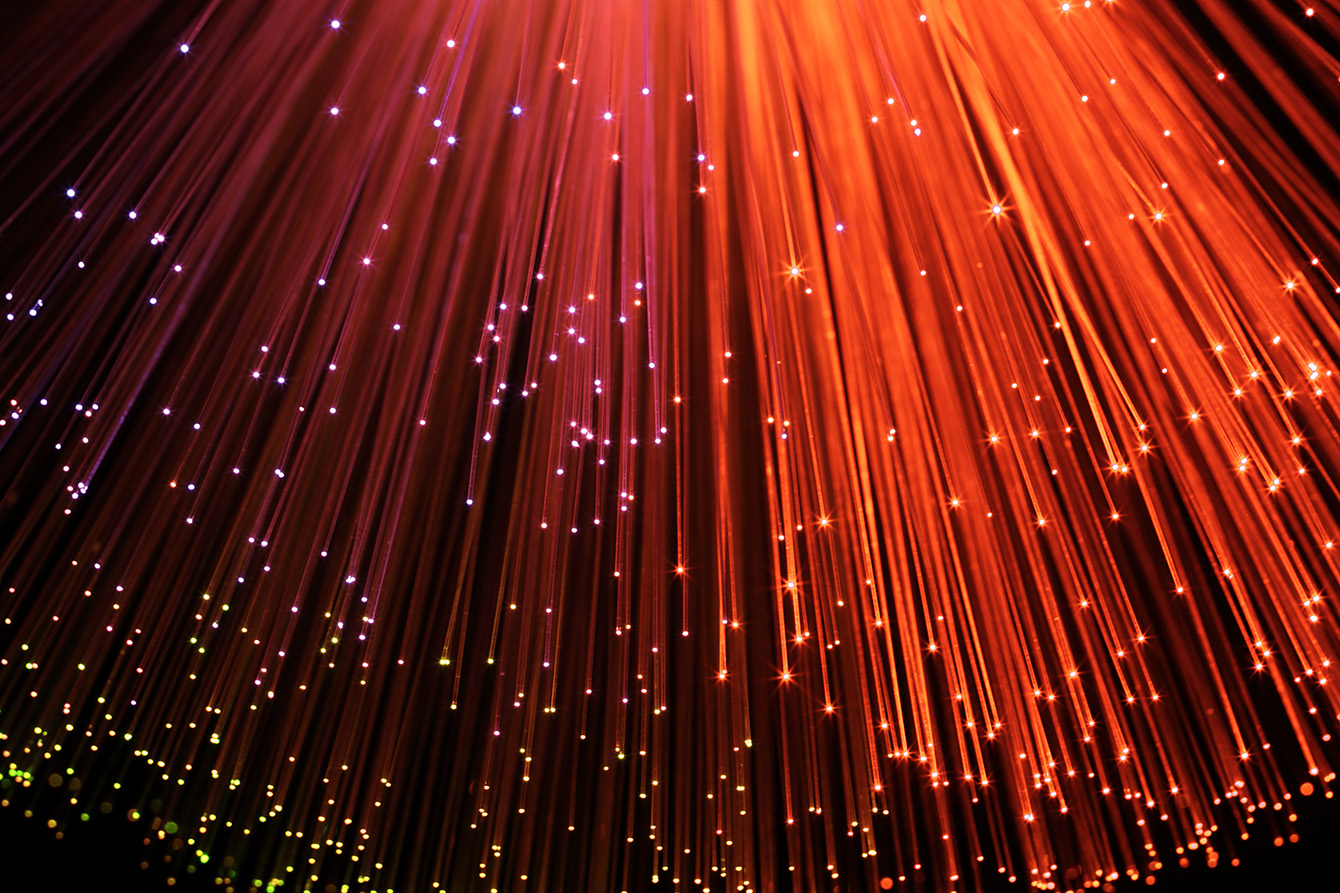
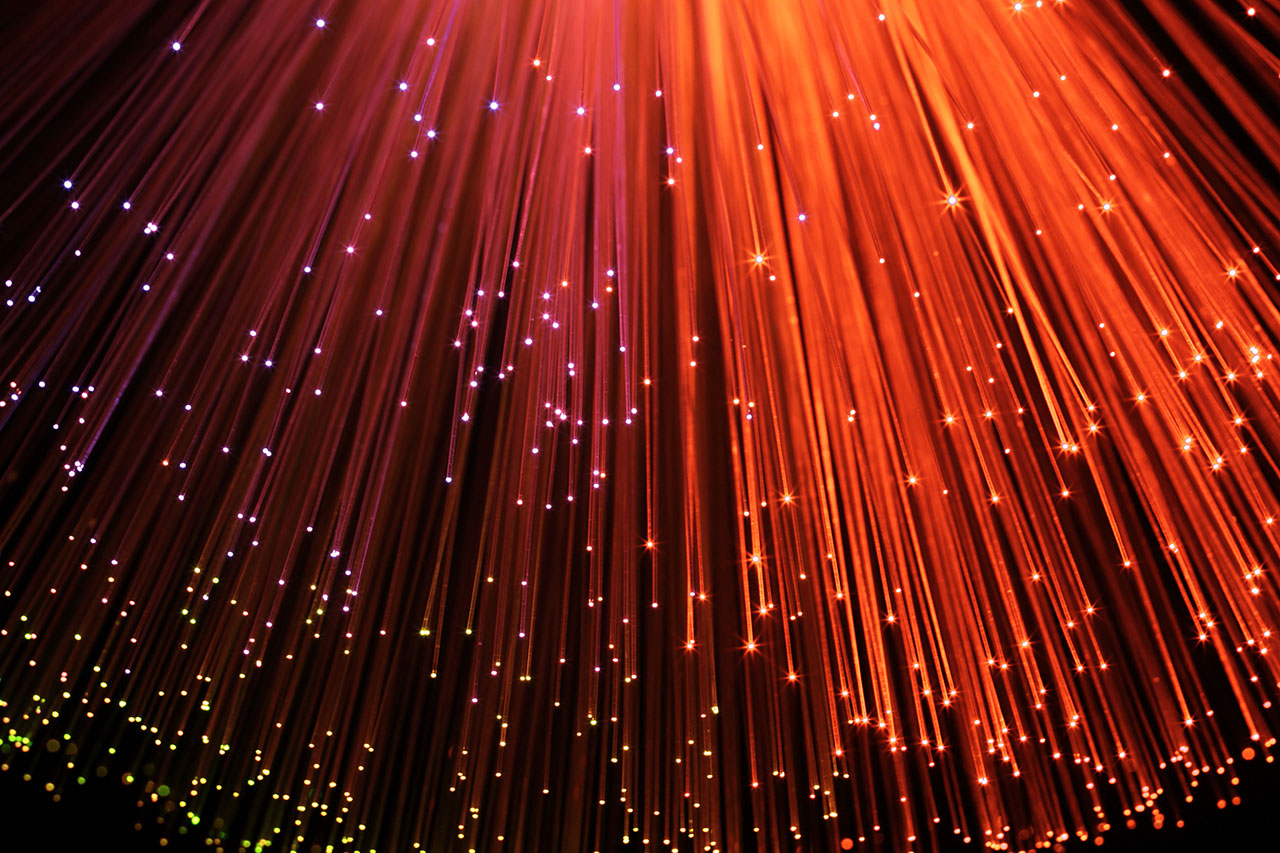
Scrolling perf improvement for fixed background image.

diff --git a/styles/compressed/v3-app.min.css b/styles/compressed/v3-app.min.css
@@ -1,2 +1,2 @@
[2 lines of base64/hex data omitted]
 /*# sourceMappingURL=v3-app.min.css.map */

diff --git a/styles/compressed/v3-home.min.css b/styles/compressed/v3-home.min.css
@@ -1,2 +1,2 @@
-section.blue{background:url("/images/v3-hero-background.jpg") no-repeat center center fixed;background-size:cover;color:white;display:table;font-size:60px;font-weight:300;height:100%;position:relative;width:100%}section.blue .container{display:table-cell;vertical-align:middle}section.blue .fa{font-size:50px}section.blue h1{margin:0;padding:0;text-shadow:0px 0.5px #222;text-transform:uppercase}section.blue p{font-size:24px;margin:0;padding:0;text-shadow:0px 0.5px #222}section.gray{background-color:#ecf0f1;color:#7f8c8d}section.gray .container{margin:0 auto;padding:60px 0;width:990px}section.gray h4{color:#222;font-size:32px;font-weight:700;margin:0 0 60px;text-transform:uppercase}section.gray ul{float:left;padding:0;margin:0}section.gray li{float:left;list-style-type:none;margin:0;min-height:250px;padding:0;width:330px}section.gray h3{color:#3498db;font-size:24px;font-weight:300;margin:0 0 15px;text-transform:capitalize}section.gray .fa{color:#3498db;display:block;font-size:40px;height:100%;line-height:130px;width:100%}section.gray .icon{background-image:url("/images/v3-category-background.png");display:inline-block;height:130px;margin-bottom:25px;width:130px}.play-video-button{color:white}section.partners{background-color:white}section.partners .container{margin:0 auto;padding:60px 0;width:990px}section.partners h4{color:#222;font-size:32px;font-weight:700;margin:0;text-transform:uppercase}section.partners .slider{margin:60px 0}section.partners a{background-color:#27ae60;border-radius:3px;color:white;display:inline-block;font-size:20px;line-height:50px;margin:0 auto;padding-left:30px;padding-right:30px;vertical-align:middle}
+section.blue{color:white;display:table;font-size:60px;font-weight:300;height:100%;position:relative;width:100%}section.blue::before{background:url("/images/v3-hero-background.jpg") no-repeat center center fixed;background-size:cover;content:' ';height:100%;left:0;position:fixed;top:0;width:100%;will-change:transform;z-index:-1}section.blue .container{display:table-cell;vertical-align:middle}section.blue .fa{font-size:50px}section.blue h1{margin:0;padding:0;text-shadow:0px 0.5px #222;text-transform:uppercase}section.blue p{font-size:24px;margin:0;padding:0;text-shadow:0px 0.5px #222}section.gray{background-color:#ecf0f1;color:#7f8c8d}section.gray .container{margin:0 auto;padding:60px 0;width:990px}section.gray h4{color:#222;font-size:32px;font-weight:700;margin:0 0 60px;text-transform:uppercase}section.gray ul{float:left;padding:0;margin:0}section.gray li{float:left;list-style-type:none;margin:0;min-height:250px;padding:0;width:330px}section.gray h3{color:#3498db;font-size:24px;font-weight:300;margin:0 0 15px;text-transform:capitalize}section.gray .fa{color:#3498db;display:block;font-size:40px;height:100%;line-height:130px;width:100%}section.gray .icon{background-image:url("/images/v3-category-background.png");display:inline-block;height:130px;margin-bottom:25px;width:130px}.play-video-button{color:white}section.partners{background-color:white}section.partners .container{margin:0 auto;padding:60px 0;width:990px}section.partners h4{color:#222;font-size:32px;font-weight:700;margin:0;text-transform:uppercase}section.partners .slider{margin:60px 0}section.partners a{background-color:#27ae60;border-radius:3px;color:white;display:inline-block;font-size:20px;line-height:50px;margin:0 auto;padding-left:30px;padding-right:30px;vertical-align:middle}
 /*# sourceMappingURL=v3-home.min.css.map */

diff --git a/styles/v3-home.scss b/styles/v3-home.scss
@@ -13,8 +13,6 @@ $green-color: #27ae60;
 
 section.blue
 {
-    background: url('/images/v3-hero-background.jpg') no-repeat center center fixed;
-    background-size: cover;
     color: white;
     display: table;
     font-size: 60px;
@@ -23,6 +21,21 @@ section.blue
     position: relative;
     width: 100%;
 }
+
+section.blue::before
+{
+    background: url('/images/v3-hero-background.jpg') no-repeat center center fixed;
+    background-size: cover;
+    content: ' ';
+    height: 100%;
+    left: 0;
+    position: fixed; // instead of background-attachment
+    top: 0;
+    width: 100%;
+    will-change: transform; // creates a new paint layer
+    z-index: -1;
+}
+
 
 section.blue .container
 {

diff --git a/styles/v3-app.scss b/styles/v3-app.scss
@@ -331,6 +331,7 @@ section.search-bar .search-dropdown-tip div
 
 footer
 {
+    background-color: #ecf0f1;
     padding: 40px 30px;
     text-align: left;
 }
